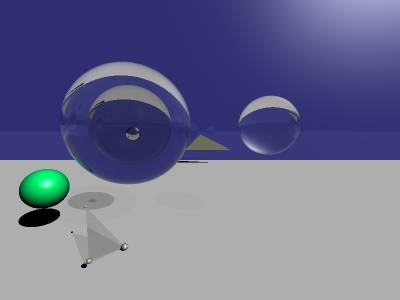
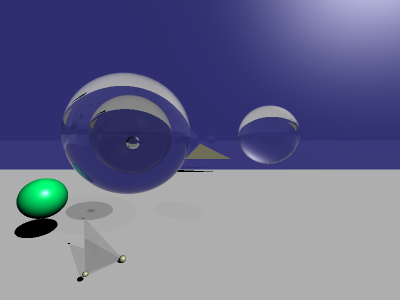
camera direction

diff --git a/camera.h b/camera.h
@@ -16,18 +16,21 @@ class camera
 {
 public:
     world &w;
-    vector3df location;
+    vector3df location, front, right, up;
     const double fov_x;
     const double double_tan_fov_x_2;
 
-    camera(world &w, const vector3df &location)
-        : camera(w, location, 95.0)
+    camera(world &w, const vector3df &location, const vector3df &front, const vector3df &up)
+        : camera(w, location, front, up, 95.0)
     {
 
     }
 
-    camera(world &w, const vector3df &location, double fov_x)
-        : w(w), location(location), fov_x(fov_x),
+    camera(world &w, const vector3df &location, const vector3df &front, const vector3df &up,
+           double fov_x)
+        : w(w), location(location), front(front), right(front.cross(up).normalize()),
+          up(right.cross(front)),
+          fov_x(fov_x),
           double_tan_fov_x_2(2.0 * tan(fov_x / 2.0 * M_PI / 180.0))
     {
 

diff --git a/camera.cpp b/camera.cpp
@@ -133,9 +133,9 @@ void camera::render(image &img) const
             const std::ptrdiff_t world_x = x, world_y = img.height - y - 1;
             const ray r = 
                 ray(location,
-                    vector3df((double)(world_x - half_width),
-                              (double)(world_y - half_height),
-                              (double)(-d)).normalize());
+                    vector3df(right * (double)(world_x - half_width) +
+                              up * (double)(world_y - half_height) +
+                              front * (double)(d)).normalize());
             vector3df color_float = ray_trace(r, vector3df(1.0, 1.0, 1.0)) * 255;
             img.set_color(x, y, color_t(color_float.x, color_float.y, color_float.z));
         }

diff --git a/object.h b/object.h
@@ -33,7 +33,7 @@ class object
 {
 public:
     vector3df diffuse = vector3df(0.0, 0.7, 0.4);
-    vector3df ambient, specular = vector3df(0.5, 0.5, 0.5);
+    vector3df emission = vector3df::zero, specular = vector3df(0.5, 0.5, 0.5);
     double shininess = 16.0, reflectiveness = 0.0;
     vector3df refractiveness = vector3df::zero;
     double refractive_index = 1.0; // Refractive index.

diff --git a/main.cpp b/main.cpp
@@ -171,7 +171,7 @@ int main(int argc, char **argv)
         }
     }*/
 
-    camera c(w, vector3df(0.0, 0.0, 1000.0));
+    camera c(w, vector3df(0.0, 0.0, 1000.0), vector3df(0.0, 0.05, -1.0).normalize(), vector3df(0.0, 1.0, 0.0));
         
     // Performance test.
     for (int N = 1; N <= 1; ++N)
